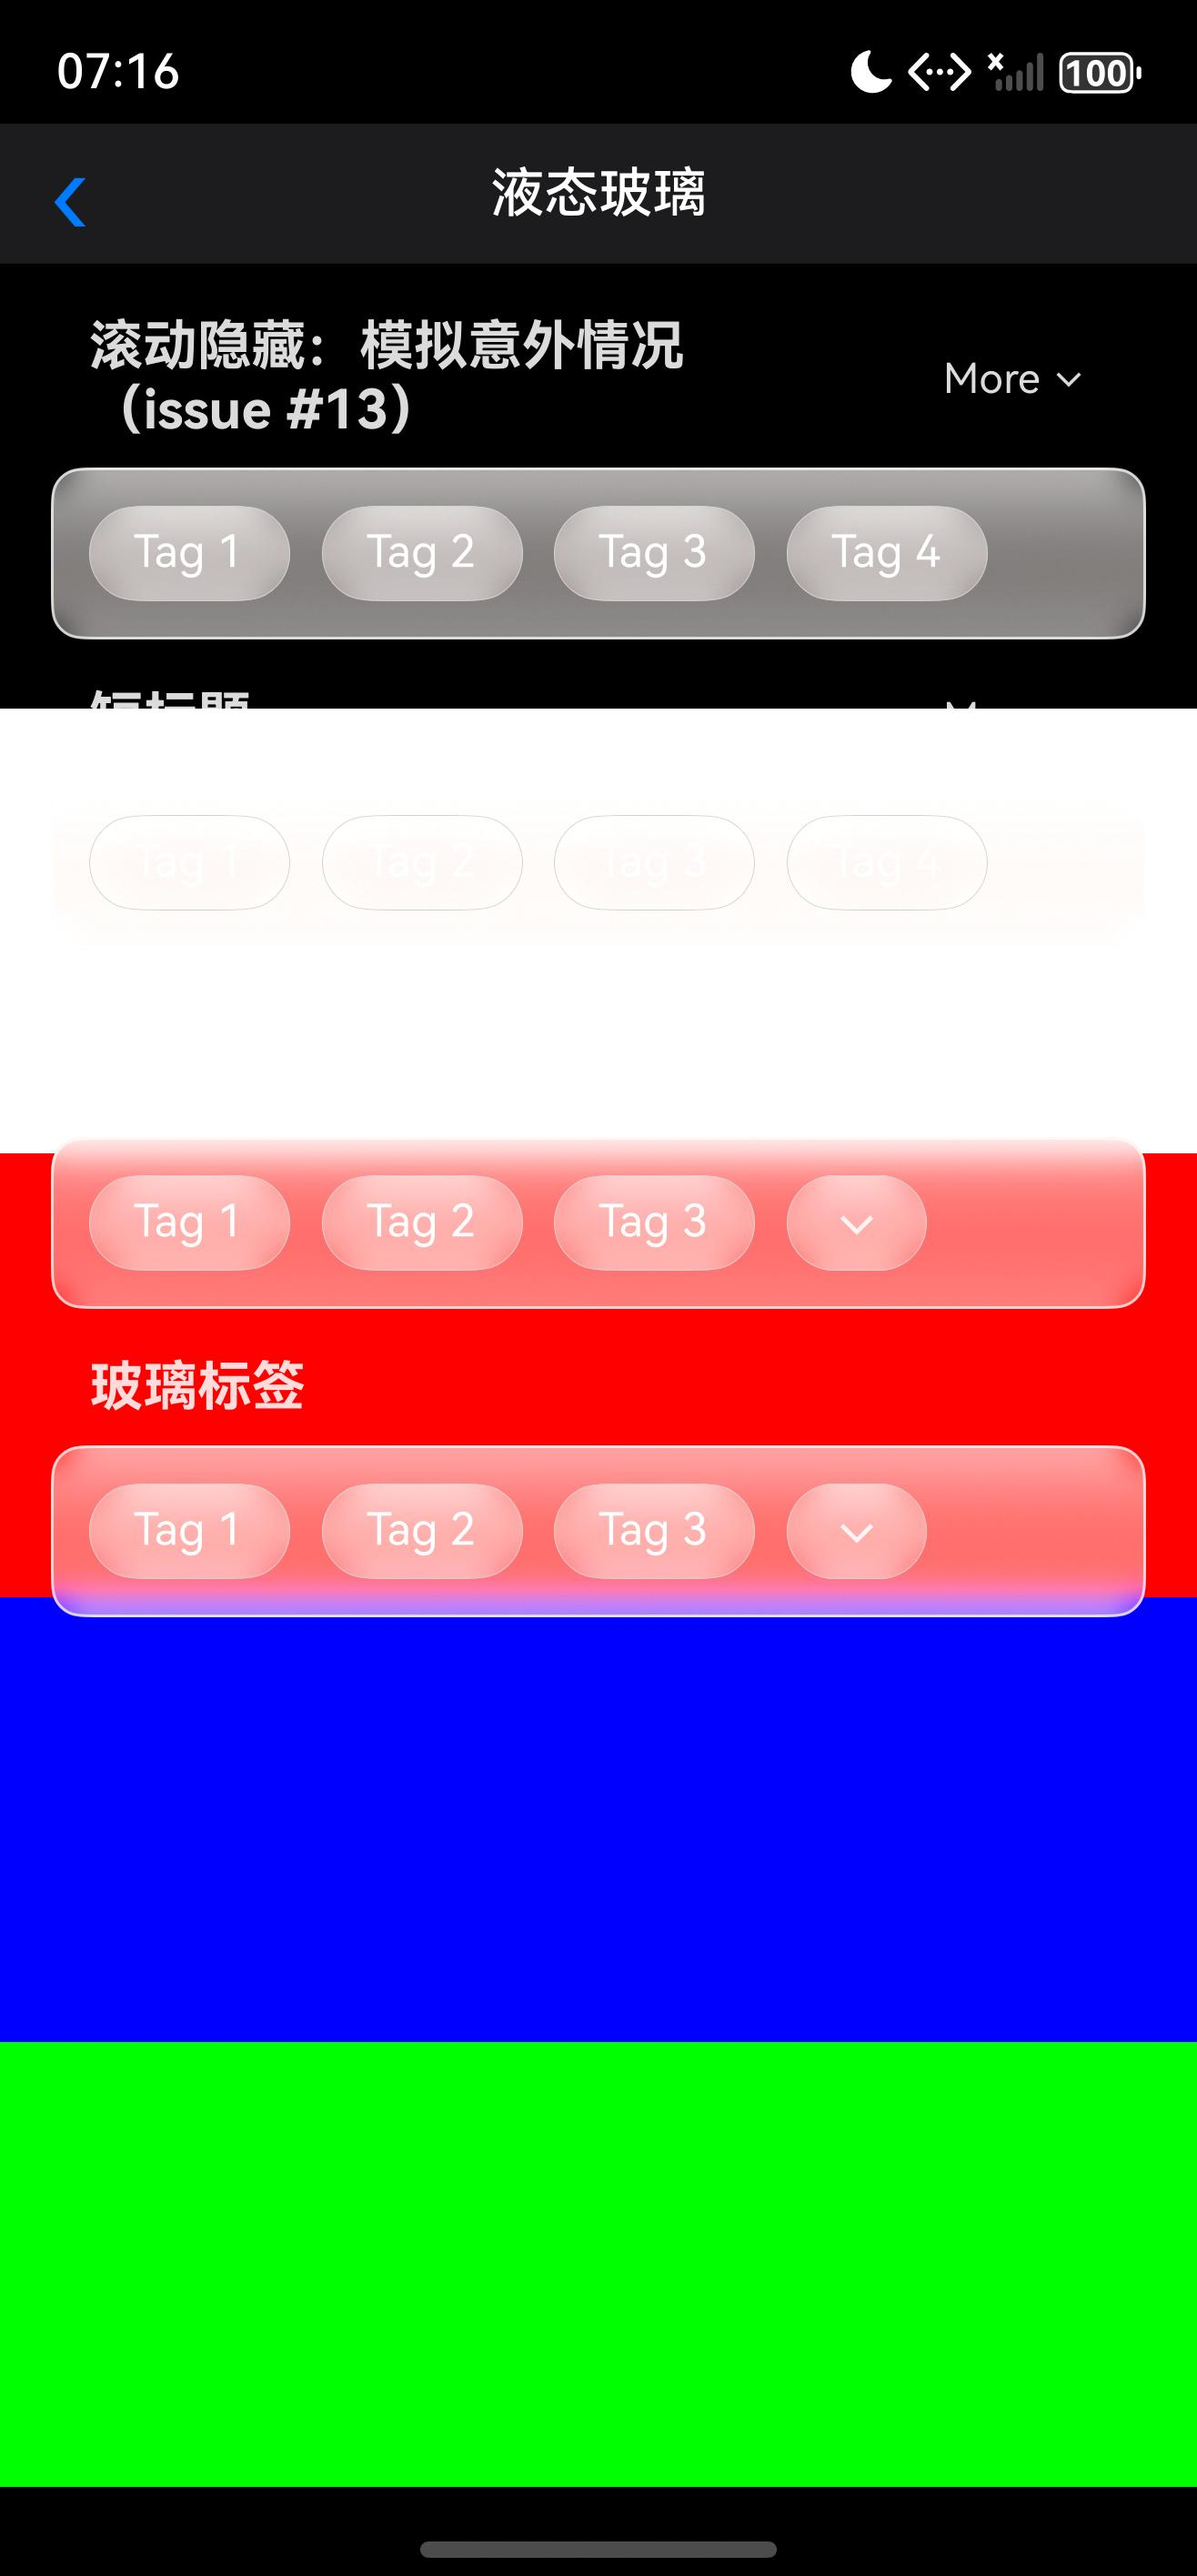
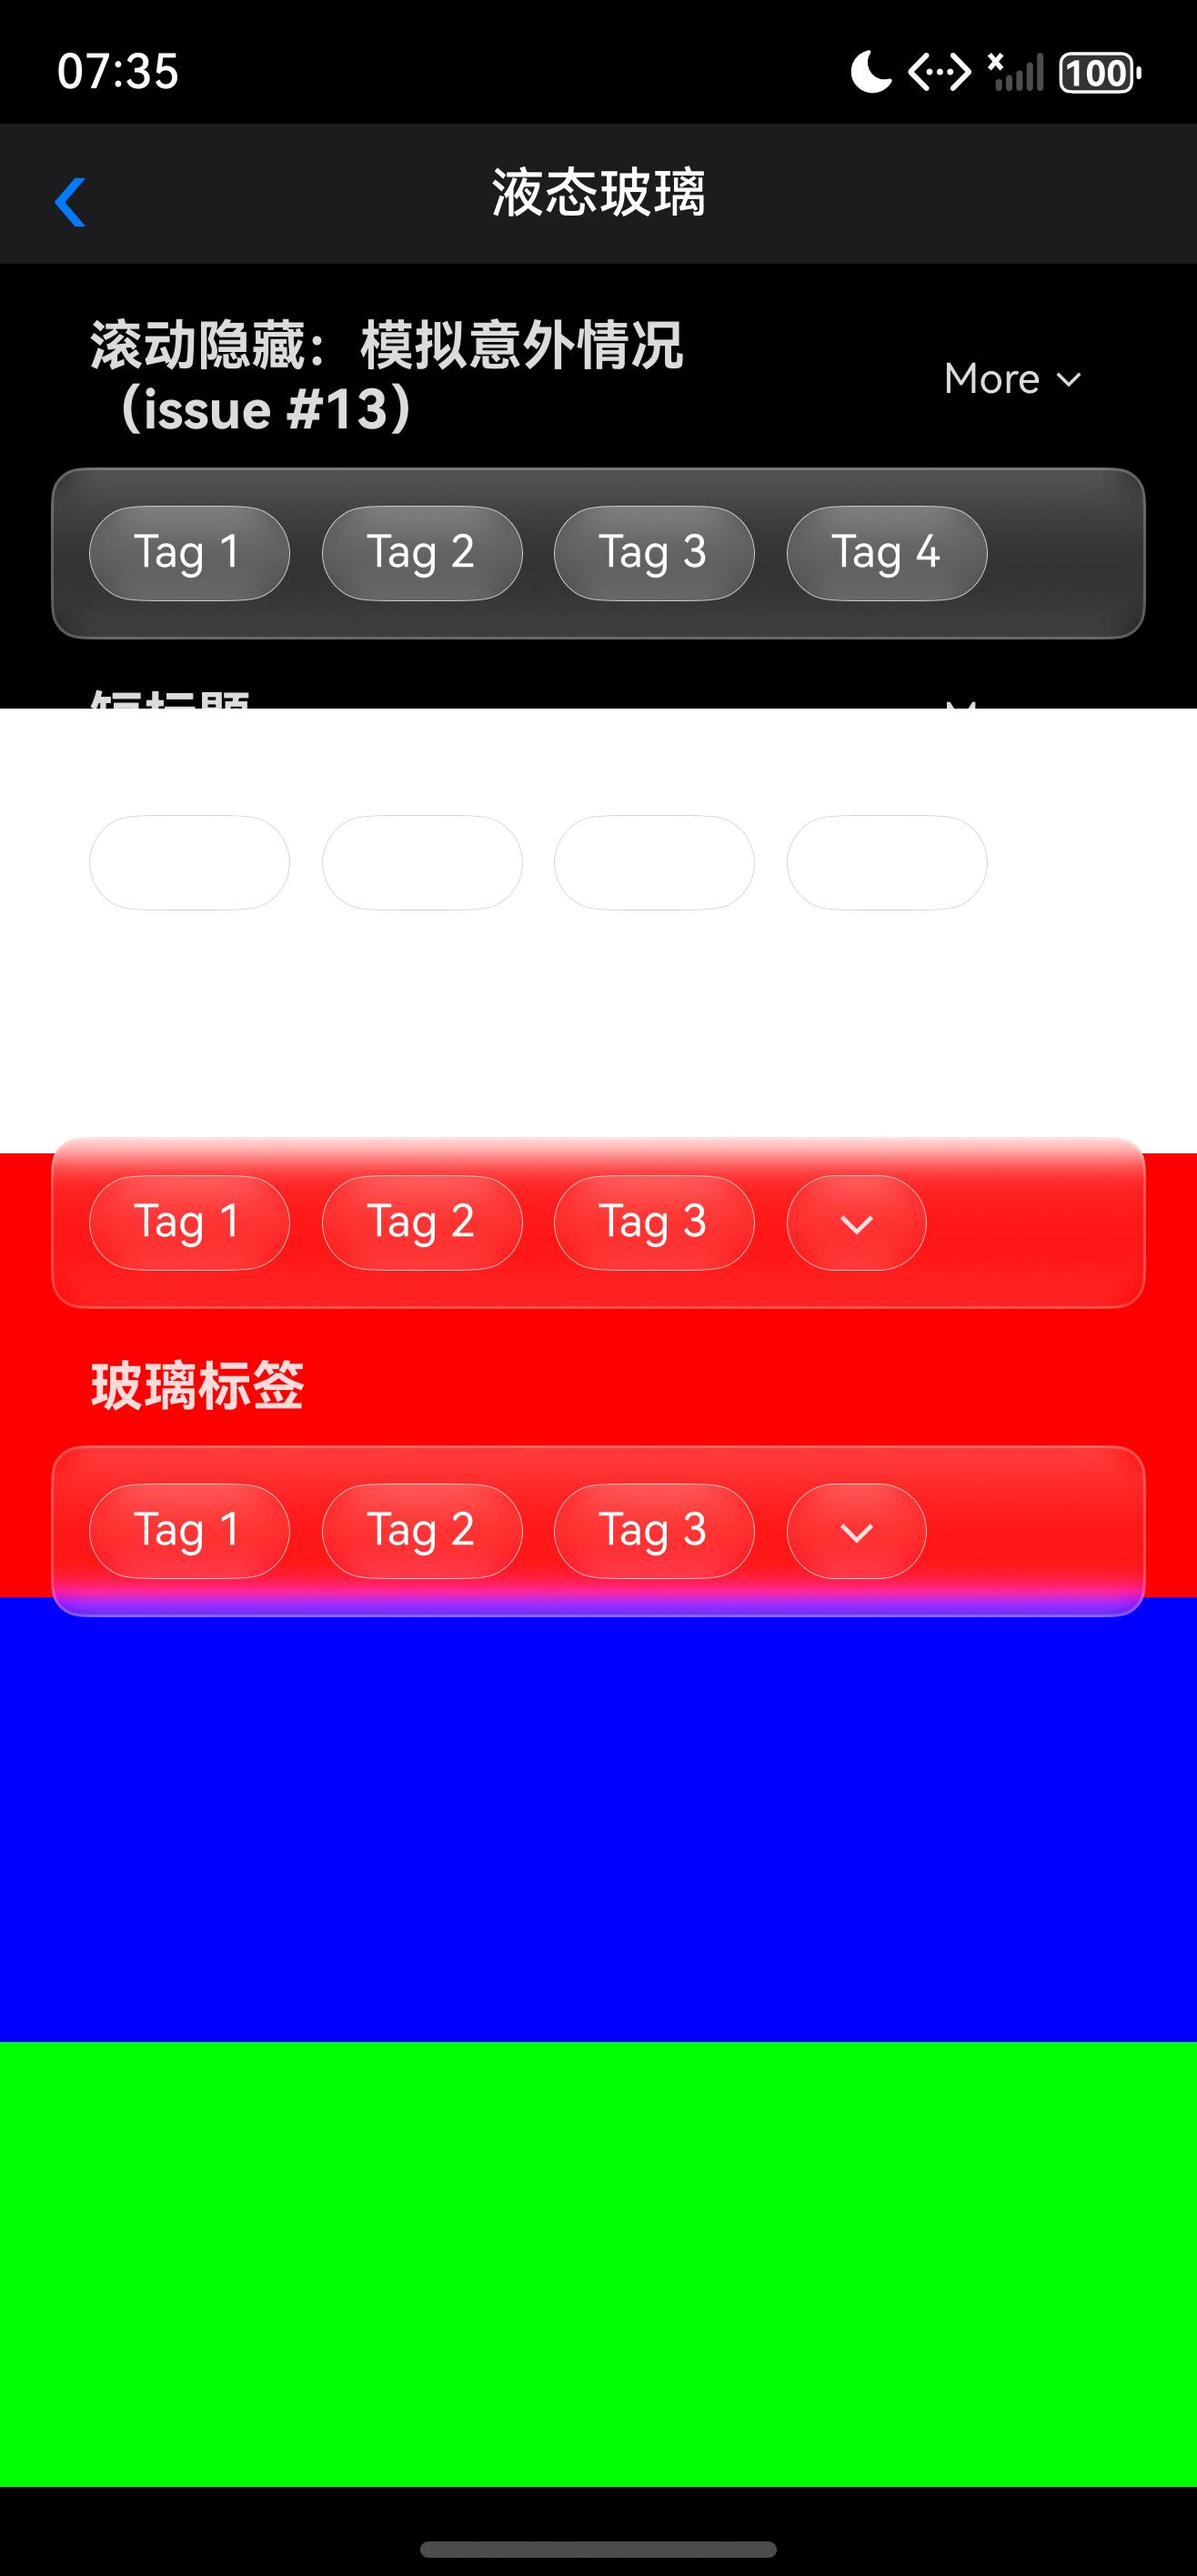
docs: recapture the HarmonyOS glass demo in dark and light after the color-mode fix; note the cyl_colorMode requirement
Claude-Session: https://claude.ai/code/session_017y7XP2SeFxF3g6NBYemNsV

diff --git a/docs/tag-liquid-glass-platforms.md b/docs/tag-liquid-glass-platforms.md
@@ -65,10 +65,17 @@ the reason is recorded here (a platform's row is not final until its assessment 
 
 ## HarmonyOS capture (example page `CYLTagGlassDemoViewController`, 2026-11-26)
 
-`docs/assets/harmonyos-emulator-glass-demo-light.jpeg` and `harmonyos-emulator-glass-demo-dark.jpeg` (emulator, tab bar pin `b6e02875`):
+`docs/assets/harmonyos-emulator-glass-demo-light.jpeg` and `harmonyos-emulator-glass-demo-dark.jpeg` (emulator, tab bar pin `98966c43`, taken after the example set `cyl_colorMode`):
 glass tags, the glass section board and the glass tail fold cell on a black / white / red / blue / green plate. Seen: the board and the tags
 both have the lit edge, the tail chevron is now a glass capsule like the tags (it was an opaque capsule), and in dark mode the long header
 title "滚动隐藏：模拟意外情况（issue #13）" wraps to two lines with the "More ⌄" fold control in full at the right end (the header-room model).
 Not seen: the More and clear icon buttons next to the fold control (the page's data source does not enable them), and the light-mode header
 text on the black band and the dark-mode tags on the white band are unreadable, because the plate is a fixed colour set in both modes (a
 property of the demo plate, not of the library). No "before" capture was taken.
+
+Dark mode needs the app's color mode: `cylanimateditem` reads AppStorage `cyl_colorMode` ('dark' / 'light'; CYLTabBarController's
+`cyl_updateColorMode` sets it, light when unset). An app that uses the tag list without the tab bar module must set the key itself, or
+every glass is drawn in its light variant in dark mode (grey, bright tags and board; this is what the first dark captures showed). The
+ClassifyMenu example sets it in `EntryAbility` (`syncGlassColorMode`, `onConfigurationUpdate`). Whether `cylanimateditem` should fall back
+to the system mode by itself is the owner's decision (tab bar repo); the recaptured dark page now has dark translucent tags and board, the
+uniform rim, and the long header title wrapped with "More ⌄" in full.
